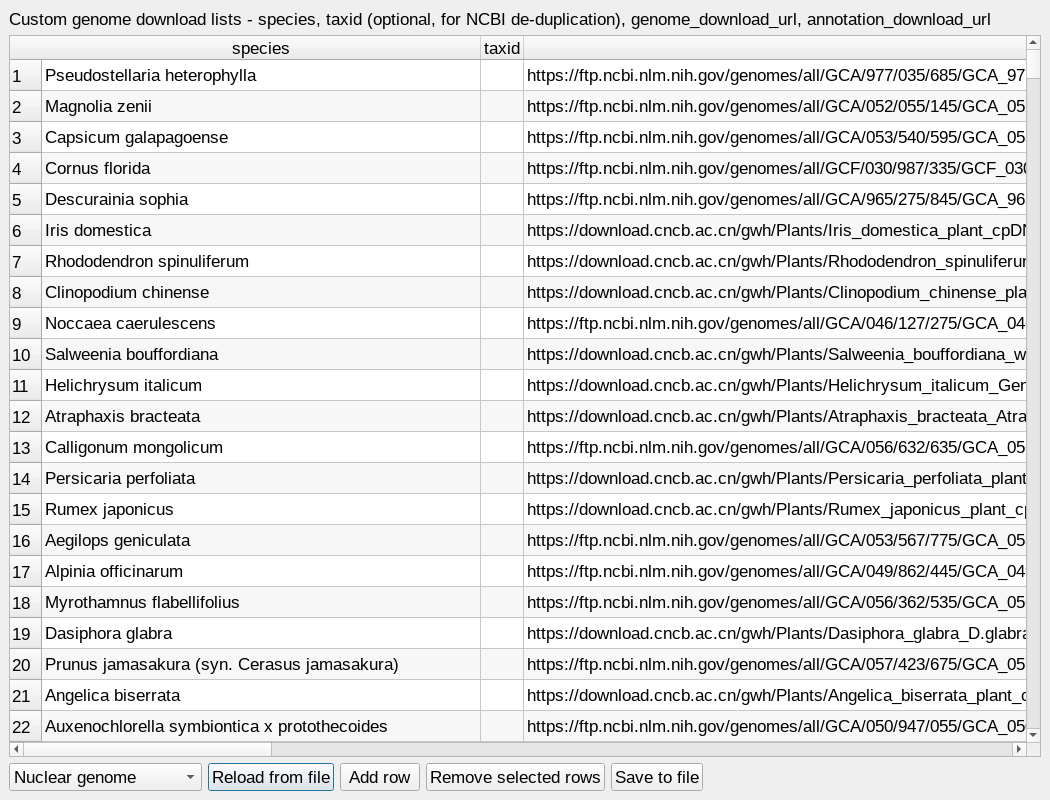
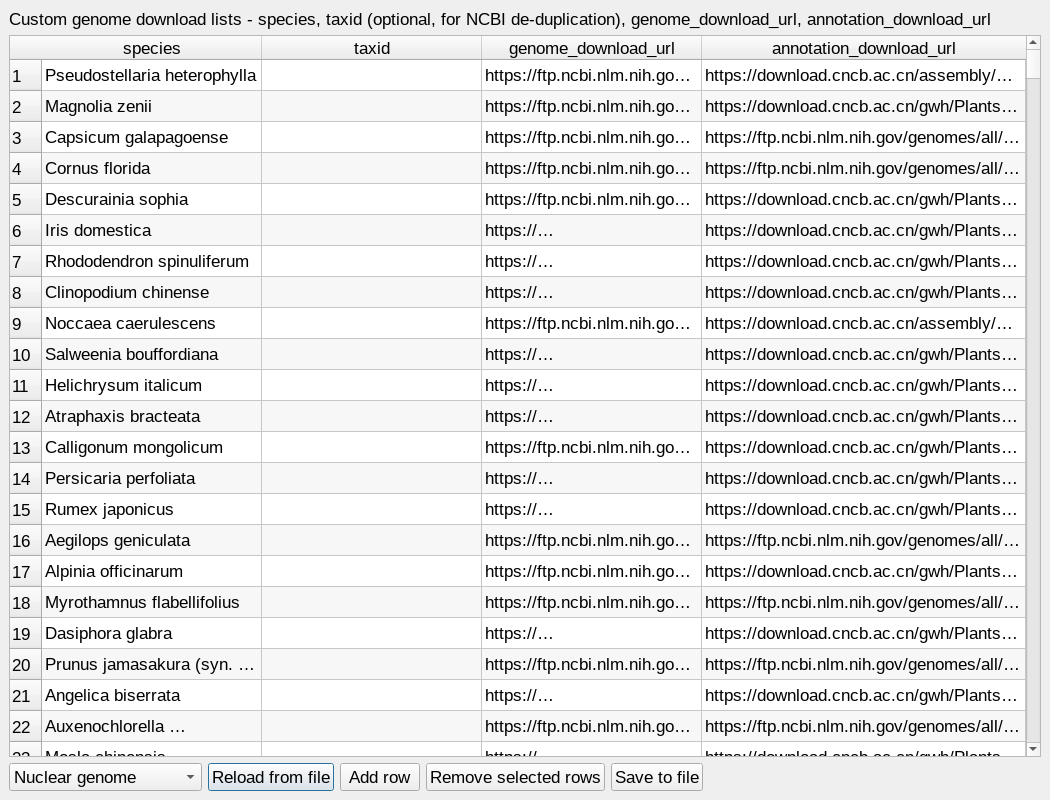
docs: v1.3.61 constant-time editor table population

diff --git a/docs/conf.py b/docs/conf.py
@@ -9,8 +9,8 @@ author = "sunshadeCisseeker developers"
 copyright = "2026, sunshadeCisseeker developers"
 
 # The short X.Y version and the full release version.
-version = "v1.3.60"
-release = "v1.3.60"
+version = "v1.3.61"
+release = "v1.3.61"
 
 extensions = [
     "sphinx.ext.autosectionlabel",

diff --git a/docs/content/Changelog.rst b/docs/content/Changelog.rst
@@ -1,6 +1,17 @@
 Changelog
 =========
 
+1.3.61 — editor dialogs: constant-time table population
+---------------------------------------------------------
+
+* The **Ecology labels / Motif library / Custom genome lists** editors used
+  ``ResizeToContents`` column sizing and repainted on every inserted cell:
+  with the 681-species label sheet (multi-KB annotation cells) opening the
+  dialog froze the interface for minutes on slower hosts. The tables now use
+  fixed default column widths (manually resizable, last column stretched)
+  and the rows are inserted in one batch with widget updates suspended, so
+  population is constant-time regardless of the table size.
+
 1.3.60 — installer: R-free fast self test
 ------------------------------------------
 

diff --git a/docs/content/About sunshadeCisseeker.rst b/docs/content/About sunshadeCisseeker.rst
@@ -4,7 +4,7 @@ About sunshadeCisseeker
 sunshadeCisseeker identifies, annotates and compares promoter
 cis-regulatory elements across sun / facultative / shade plants.
 
-The current release is **1.3.60**.
+The current release is **1.3.61**.
 
 Highlights
 ----------
